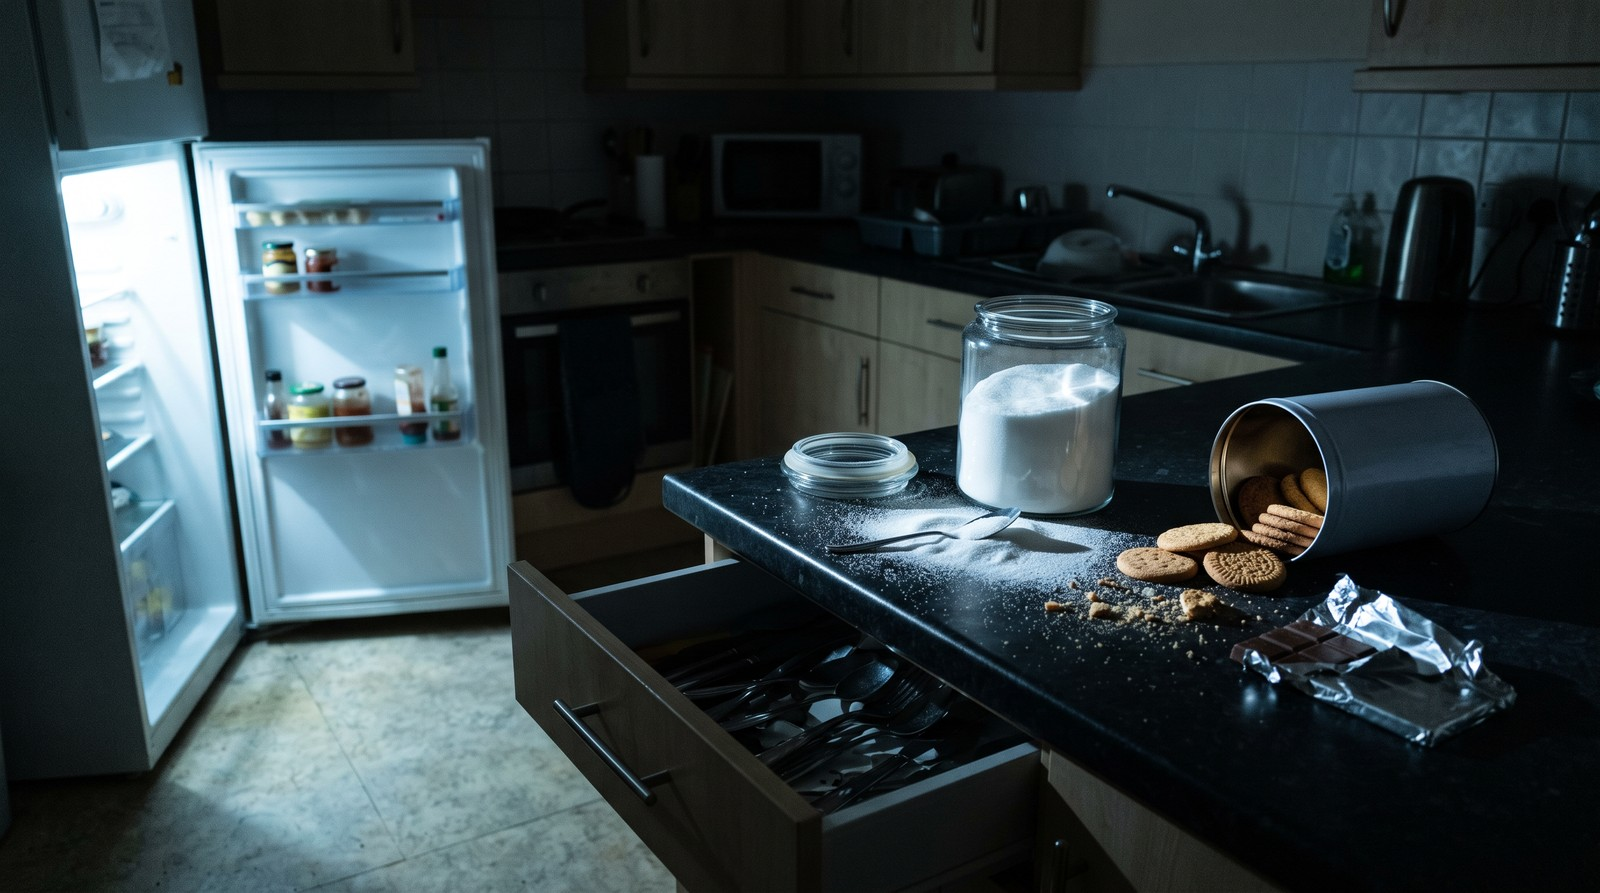
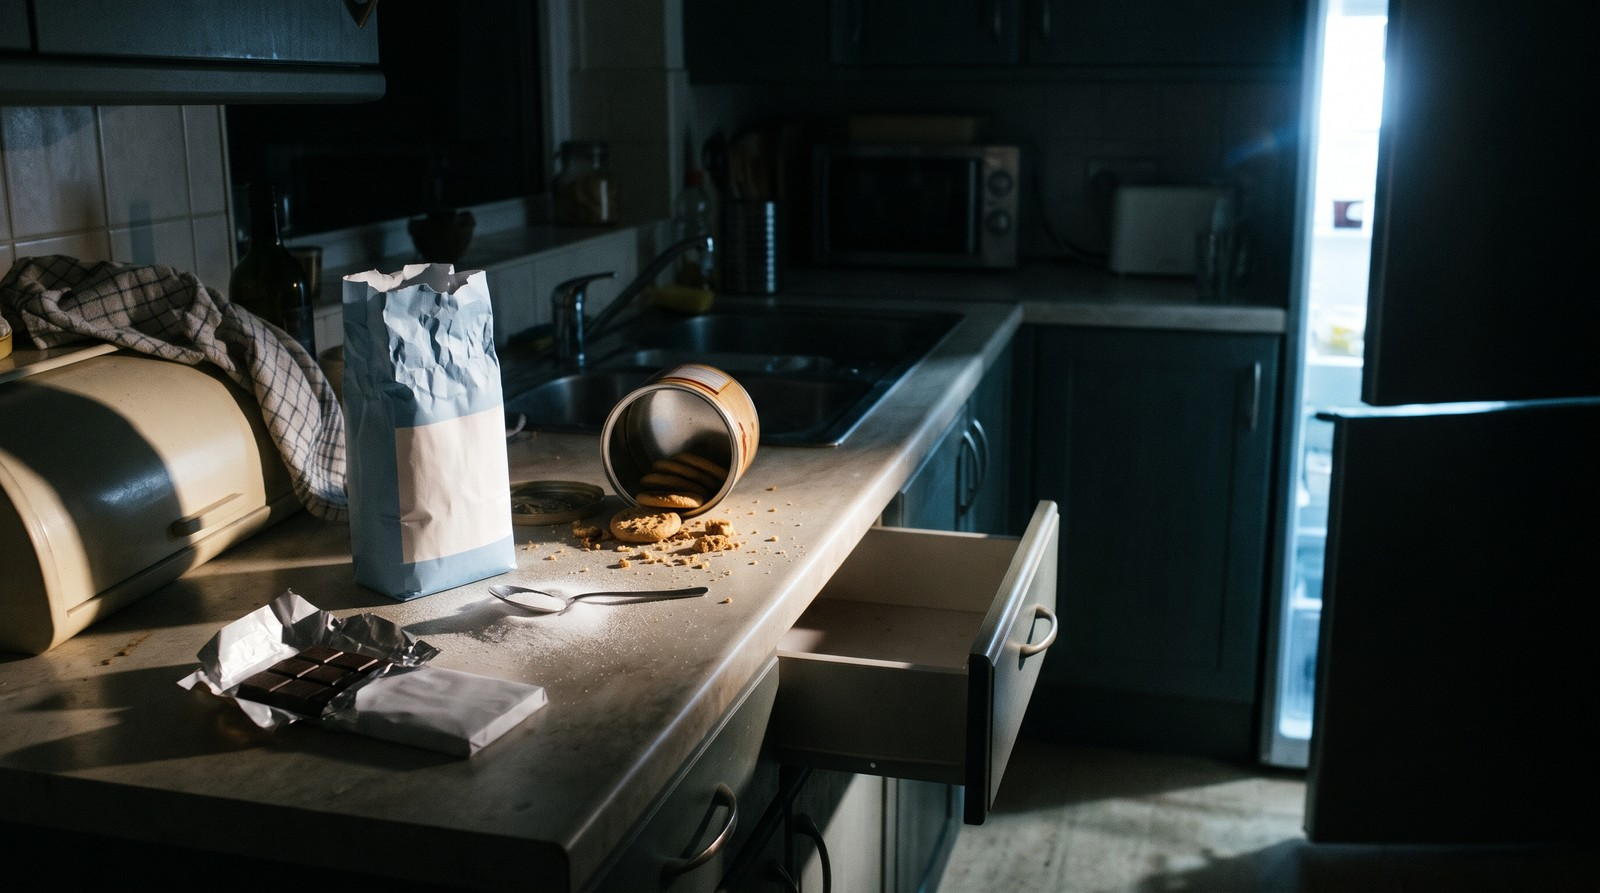
Use the blue and white sugar sack for the lesson 03 kitchen frame
Steve chose A over the recommended canister. Opening it at native
resolution, the recommendation was too cautious: the sack is pale blue
with a white panel in the classic sugar packaging shape, torn open,
spoon in the spill, and it carries no text at all. The biscuit tin band
behind it is decorative with nothing readable.

The fridge is still open and lit at the right of the frame but is no
longer the only light source, which makes this a more ordinary lit
kitchen than a night scene. A fair trade for packaging that identifies
itself without a label.

Claude-Session: https://claude.ai/code/session_013gugvQ9ie5ZPmjYiiUPcYq

diff --git a/Website/mockups/analogies/README.md b/Website/mockups/analogies/README.md
@@ -81,8 +81,8 @@ Three fixes were generated with the rest of the scene held constant.
 
 | File | Fix | Verdict |
 |---|---|---|
-| `a3-alt-blue-bag` | Blue and white paper sack, upright | Bag reads, but the scene changed: the fridge is pushed to the far right and stops being the light source |
-| `a3-alt-canister` | **Clear glass canister, lid off** | **Chosen.** No packaging to misread at all, and the composition stays closest to the original |
+| `a3-alt-blue-bag` | **Blue and white paper sack, upright** | **Chosen by Steve.** See below |
+| `a3-alt-canister` | Clear glass canister, lid off | No packaging to misread, composition closest to the original |
 | `a3-alt-white-bag` | White paper sack on its side | Better than brown, but it is still white powder coming out of a bag |
 
 The lesson worth keeping: when a no-text rule strips an object of the thing that
@@ -95,3 +95,19 @@ open. The fridge jars carry blurred label shapes but nothing resolves.
 
 `a3-kitchen.png` is the chosen frame. `a3-squatters-brownbag-rejected.png` is
 the original, kept for the record.
+
+### Steve chose A, the blue and white sack
+
+The canister was recommended on the grounds that the sack version pushed the
+fridge to the far right and cost the frame its light source. Steve picked the
+sack anyway, and opening it at native resolution the recommendation was too
+cautious: the bag is pale blue with a white panel in the classic sugar sack
+shape, torn open at the top, with the spoon in the spill. It reads as sugar
+immediately and carries no text at all. The biscuit tin behind it has a
+decorative band with nothing readable on it.
+
+The fridge is still open and lit at the right of the frame. It is no longer the
+only light, which makes this a more ordinary lit kitchen and less of a
+night-time scene, and that is a fair trade for packaging that identifies itself.
+
+`a3-kitchen.png` is now the sack version. `a3-alt-canister.png` is kept.
